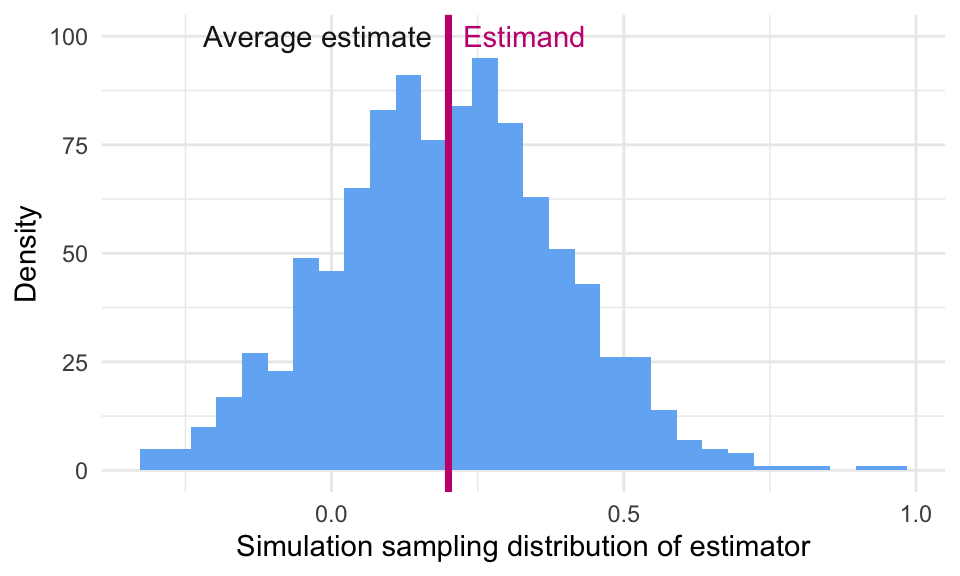
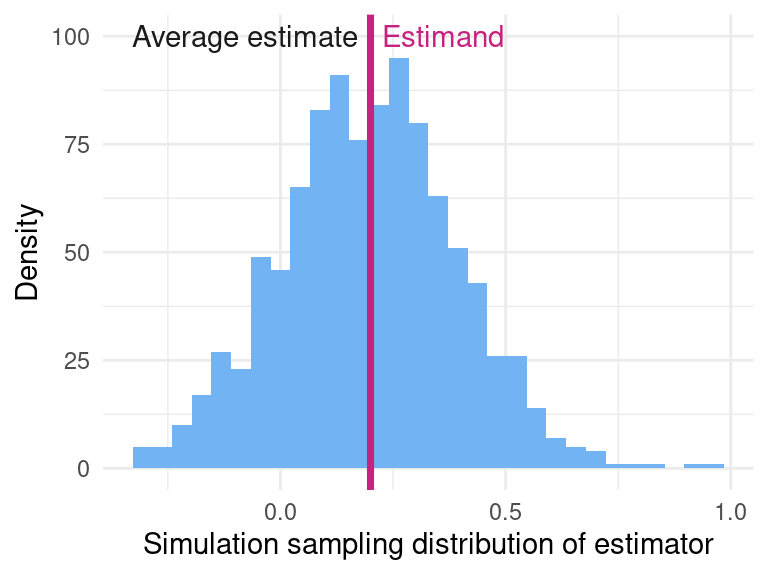
Built site for gh-pages

diff --git a/index.html b/index.html
@@ -178,8 +178,8 @@ pre > code.sourceCode > span > a:first-child::before { text-decoration: underlin
 <!-- ::: -->
 <!-- ::: -->
 <div class="dd-hero">
-<div class="grid">
-<section id="declare-and-diagnose-your-research-design" class="g-col-6 hero-left align-items-center">
+<div class="grid v-center-container">
+<section id="declare-and-diagnose-your-research-design" class="g-col-5 hero-left">
 <h1>Declare and diagnose your research design</h1>
 <h3 id="declaredesign-is-a-set-of-software-tools-to-plan-implement-analyze-and-communicate-about-empirical-research">DeclareDesign is a set of software tools to plan, implement, analyze, and communicate about empirical research</h3>
 <p><br></p>
@@ -187,8 +187,15 @@ pre > code.sourceCode > span > a:first-child::before { text-decoration: underlin
 <p><a href="getting-started/" class="btn-action-primary btn-action btn btn-success btn-lg" role="button">Get Started</a> &nbsp; <a href="./DeclareDesign/" class="btn-action-primary btn-action btn btn-success btn-lg" role="button">Software</a> &nbsp; <a href="https://book.declaredesign.org" class="btn-action-primary btn-action btn btn-success btn-lg" role="button">Read Book</a></p>
 </div>
 </section>
-<div class="g-col-6 hero-right text-center">
-<p><img src="https://book.declaredesign.org/figures/cover.jpg" class="img-fluid" width="400"></p>
+<div class="g-col-3">
+
+</div>
+<div class="g-col-4 hero-right text-center">
+<div class="quarto-figure quarto-figure-center">
+<figure class="figure">
+<p><img src="https://book.declaredesign.org/figures/cover.jpg" class="img-fluid figure-img" width="400"></p>
+</figure>
+</div>
 </div>
 </div>
 </div>
@@ -228,7 +235,7 @@ Redesign
 <div id="python" class="tab-pane fade show active" role="tabpanel" aria-labelledby="python-tab">
 <p>Declaring a design means writing down each component of a research design — the model, an inquiry about the model, a data strategy to generate data, and an answer strategy to take the data and return an answer to the inquiry.</p>
 <div class="grid">
-<div class="g-col-lg-6 g-col-12">
+<div class="g-col-lg-6">
 <div class="cell" data-hash="index_cache/html/unnamed-chunk-2_f049c71bca04773bcc96e1eed244aeda">
 <div class="sourceCode cell-code" id="cb1"><pre class="sourceCode r code-with-copy"><code class="sourceCode r"><span id="cb1-1"><a href="#cb1-1" aria-hidden="true" tabindex="-1"></a><span class="fu">library</span>(DeclareDesign)</span>
 <span id="cb1-2"><a href="#cb1-2" aria-hidden="true" tabindex="-1"></a></span>
@@ -244,7 +251,7 @@ Redesign
 <span id="cb1-12"><a href="#cb1-12" aria-hidden="true" tabindex="-1"></a>  <span class="fu">declare_estimator</span>(Y <span class="sc">~</span> Z, <span class="at">inquiry =</span> <span class="st">"ATE"</span>)</span></code><button title="Copy to Clipboard" class="code-copy-button"><i class="bi"></i></button></pre></div>
 </div>
 </div>
-<div class="g-col-lg-6 g-col-12">
+<div class="g-col-lg-6">
 <div class="cell" data-hash="index_cache/html/unnamed-chunk-3_b8091398b7679c7107750bf3a9bd1078">
 <div class="sourceCode cell-code" id="cb2"><pre class="sourceCode r code-with-copy"><code class="sourceCode r"><span id="cb2-1"><a href="#cb2-1" aria-hidden="true" tabindex="-1"></a><span class="fu">draw_data</span>(two_arm_trial)</span></code><button title="Copy to Clipboard" class="code-copy-button"><i class="bi"></i></button></pre></div>
 </div>
@@ -323,7 +330,7 @@ Redesign
 <div id="knitr" class="tab-pane fade" role="tabpanel" aria-labelledby="knitr-tab">
 <p>Diagnosing a design means simulating the design many times to learn about its properties. Is the design biased? Is there enough statistical power? How often will you get the sign of the effect wrong?</p>
 <div class="grid">
-<div class="g-col-lg-6 g-col-12">
+<div class="g-col-lg-6">
 <div class="cell" data-hash="index_cache/html/unnamed-chunk-7_6b2afba392074141dd30984134622179">
 <div class="sourceCode cell-code" id="cb4"><pre class="sourceCode r code-with-copy"><code class="sourceCode r"><span id="cb4-1"><a href="#cb4-1" aria-hidden="true" tabindex="-1"></a><span class="fu">diagnose_design</span>(two_arm_trial)</span></code><button title="Copy to Clipboard" class="code-copy-button"><i class="bi"></i></button></pre></div>
 </div>
@@ -353,9 +360,9 @@ Redesign
 </div>
 </div>
 <div class="g-col-lg-6 g-col-12">
-<div class="cell" data-hash="index_cache/html/unnamed-chunk-9_eeabb396ec63afabe039044c0a67350d">
+<div class="cell" data-hash="index_cache/html/unnamed-chunk-9_319a72b1b213ecebb89185c768fe1cbf">
 <div class="cell-output-display">
-<p><img src="index_files/figure-html/unnamed-chunk-9-1.png" class="img-fluid" width="480"></p>
+<p><img src="index_files/figure-html/unnamed-chunk-9-1.png" class="img-fluid" width="384"></p>
 </div>
 </div>
 </div>

diff --git a/index.css b/index.css
@@ -246,17 +246,26 @@ nav.page-navigation {
 
 .dd-hero {
   height: calc(100vh);
-  display: flex;
+  display: flex !important;
   margin-left: 30px;
   margin-top: -65px;
   margin-right: 30px;
   justify-content: center;
   align-items: center;
+  /*display: flex !important;
+  justify-content: center;
+  align-items: center;*/
+}
+
+#image-border {
+  border: 1px solid darkgray;
+  
 }
 
 .hero-left {
   margin-left: 50px;
   max-width: 550px;
+  vertical-align: middle;
 }
 
 .hero-left h1 {
@@ -269,5 +278,11 @@ nav.page-navigation {
 }
 
 .hero-right {
-  margin-right: 0px;
+}
+
+.v-center-container {
+  display: flex !important;
+  justify-content: center;
+  align-items: center;
+  height: 90%;
 }
